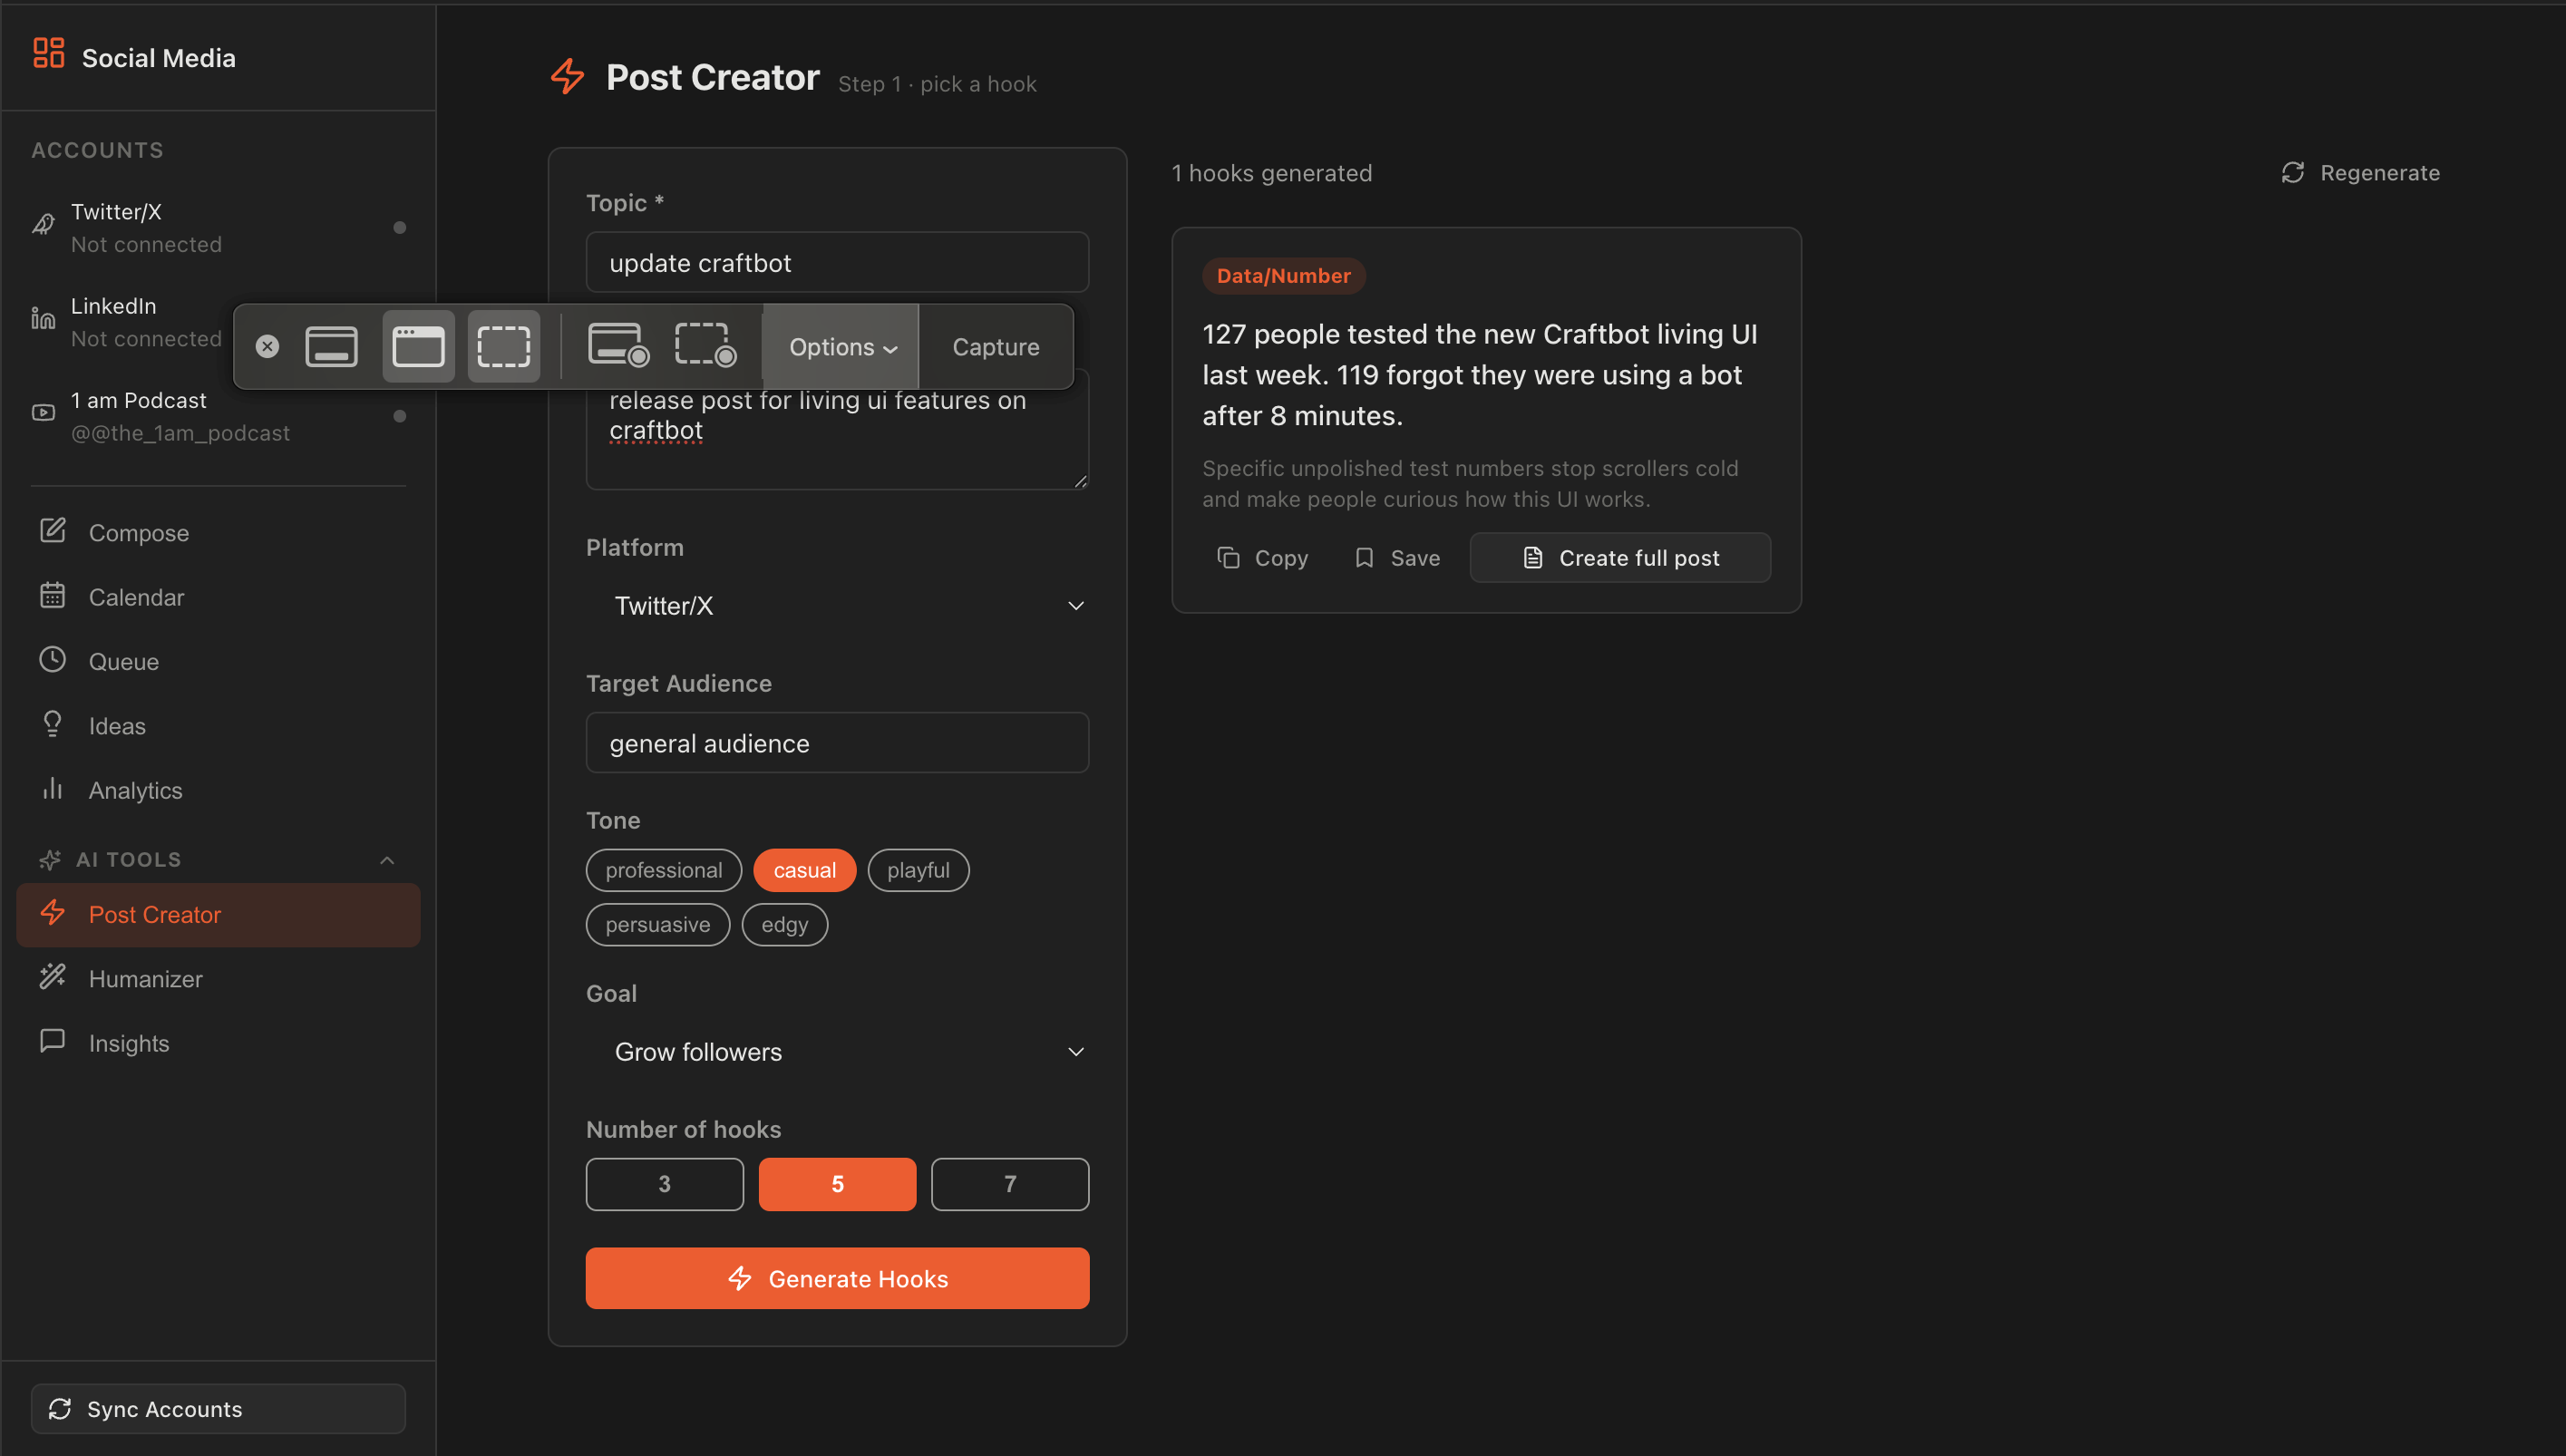
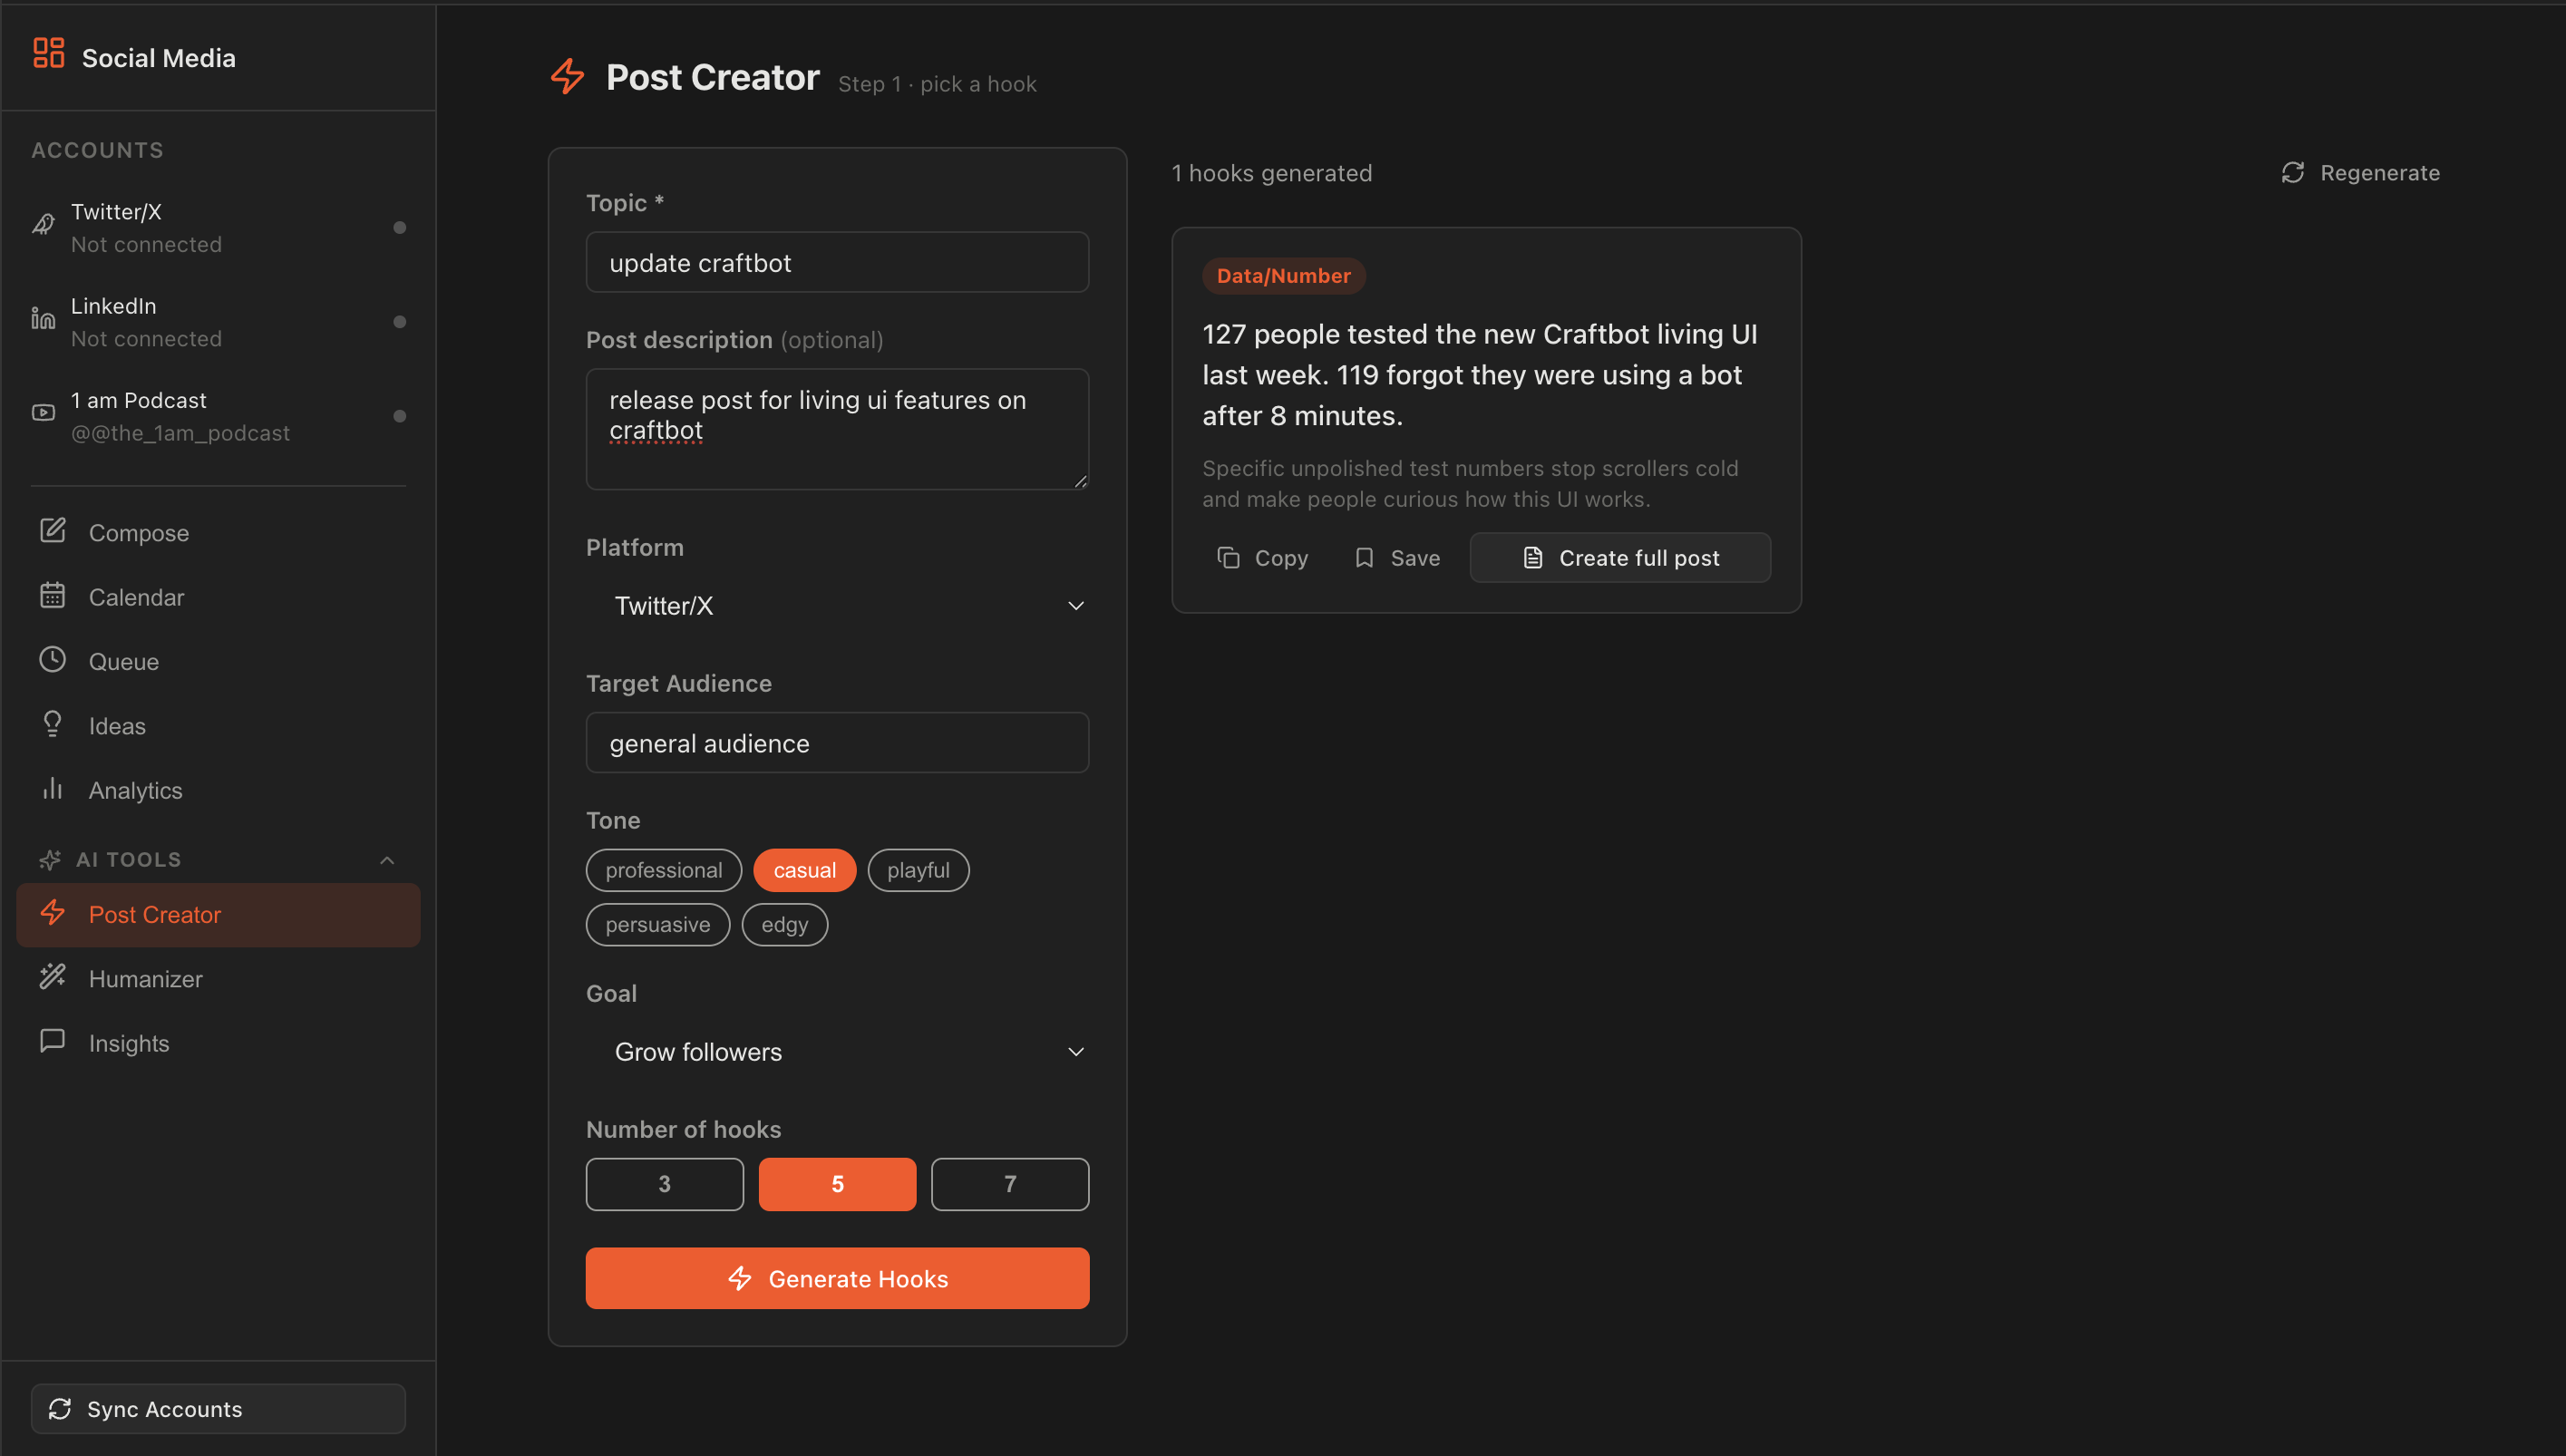
update thumbnail social media manager

Changed region(s): [[0.0933, 0.1868, 0.4042, 0.2802]]

diff --git a/social-media-manager/index.html b/social-media-manager/index.html
@@ -14,7 +14,7 @@
       if (window.location.protocol === 'https:') {
         window.__CRAFTBOT_BACKEND_URL__ = window.location.origin;
       } else {
-        window.__CRAFTBOT_BACKEND_URL__ = 'http://' + window.location.hostname + ':3208';
+        window.__CRAFTBOT_BACKEND_URL__ = 'http://' + window.location.hostname + ':{{BACKEND_PORT}}';
       }
     </script>
 

diff --git a/social-media-manager/backend/routes.py b/social-media-manager/backend/routes.py
@@ -793,7 +793,9 @@ async def generate_hooks(data: HookRequest) -> Dict[str, Any]:
         # Strip markdown fences if present
         cleaned = re.sub(r"```(?:json)?|```", "", result).strip()
         hooks = json.loads(cleaned)
-        if not isinstance(hooks, list):
+        if isinstance(hooks, dict):
+            hooks = [hooks]
+        elif not isinstance(hooks, list):
             hooks = []
         return {"status": "ok", "hooks": hooks}
     except Exception as e: